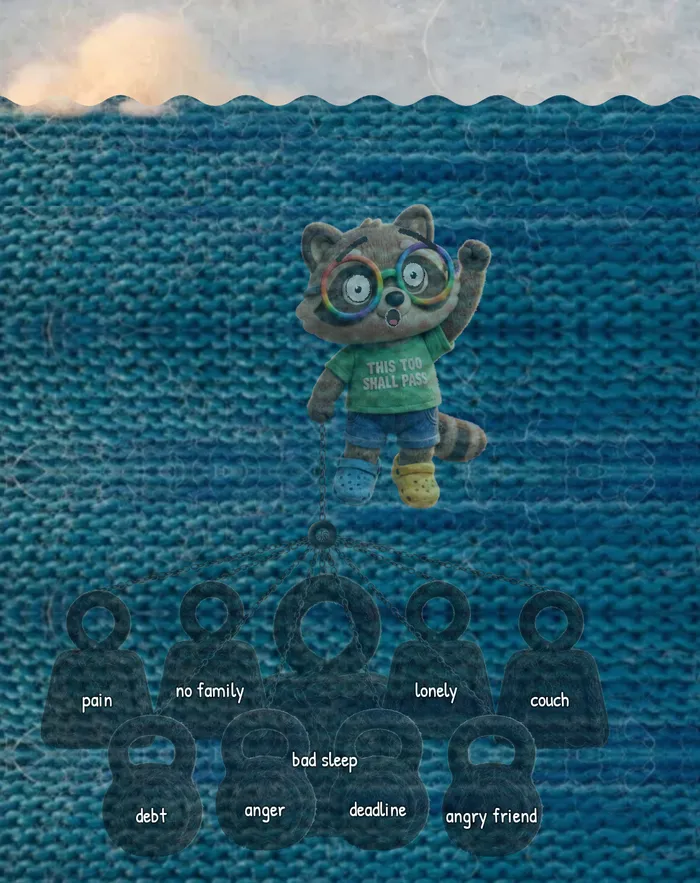
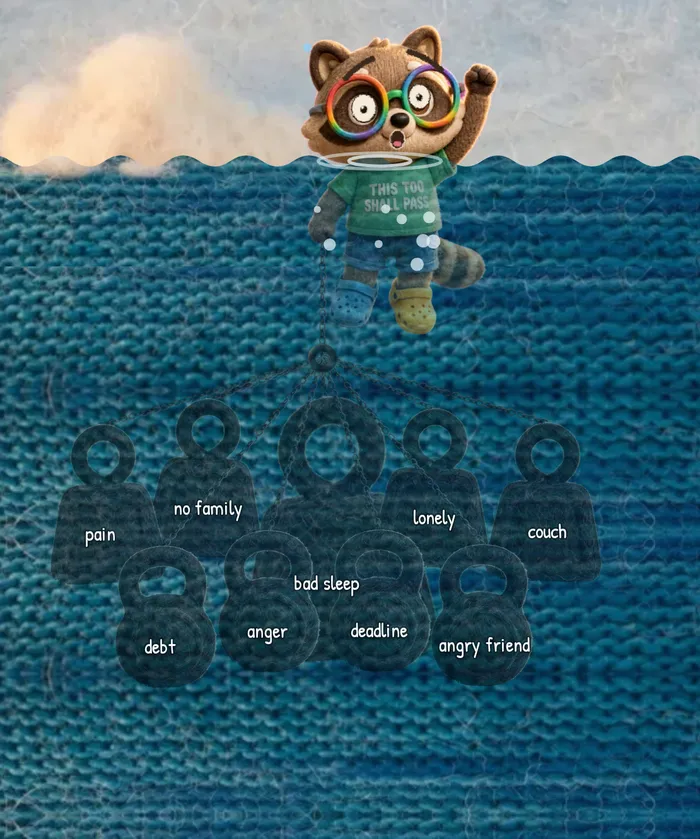
psychic-weight: image shows just his head out of the water; callout in Igor's words
Igor on #1083: "Just have his head going into the water... with just his
head sticking out", and for the bar: "Play a game. Experience this live
by adding weights and watching yourself sink."

The retake is the same nine weights and no balloons, captured from the
real interactive at a point in its overwhelmed gasp cycle (Playwright
fake clock) where the waterline sits at his neck: scared face out, body
and weights under. No static state does this with nine weights: the
lowest the water goes (tolerance 100) still sinks him to the chest-plus.

diff --git a/_d/psychic-weight.md b/_d/psychic-weight.md
@@ -12,9 +12,9 @@ imagefeaturelocal: psychic-weight-staying-afloat.webp
 
 Imagine a weight tied around your body, imagine it dragging behind you, slowing down your motions, preventing you from going where you want to go. Imagine never taking it off, and getting no relief regardless of when you sit or sleep. Now imagine that's not a physical weight, but instead a mental weight, a psychic weight if you will. Psychic weight are the thoughts that prevent your mind and emotions from being fluid and light.
 
-{% include alert.html content="You can see the weights in [Staying Afloat](/staying-afloat): pile them on, take away the balloons, and I sink." style="info" %}
+{% include alert.html content="Play a game: experience this live in [Staying Afloat](/staying-afloat) by adding weights and watching yourself sink." style="info" %}
 
-{% include repo_image_float_right.html src="psychic-weight-staying-afloat.webp" alt="The felt raccoon under water, chained to weights labeled pain, debt, anger, deadline, bad sleep and more, with no balloons" %}
+{% include repo_image_float_right.html src="psychic-weight-staying-afloat.webp" alt="The felt raccoon with just his freaked-out head above the water, chained to weights labeled pain, debt, anger, deadline, bad sleep and more, with no balloons" %}
 
 <!-- prettier-ignore-start -->
 
